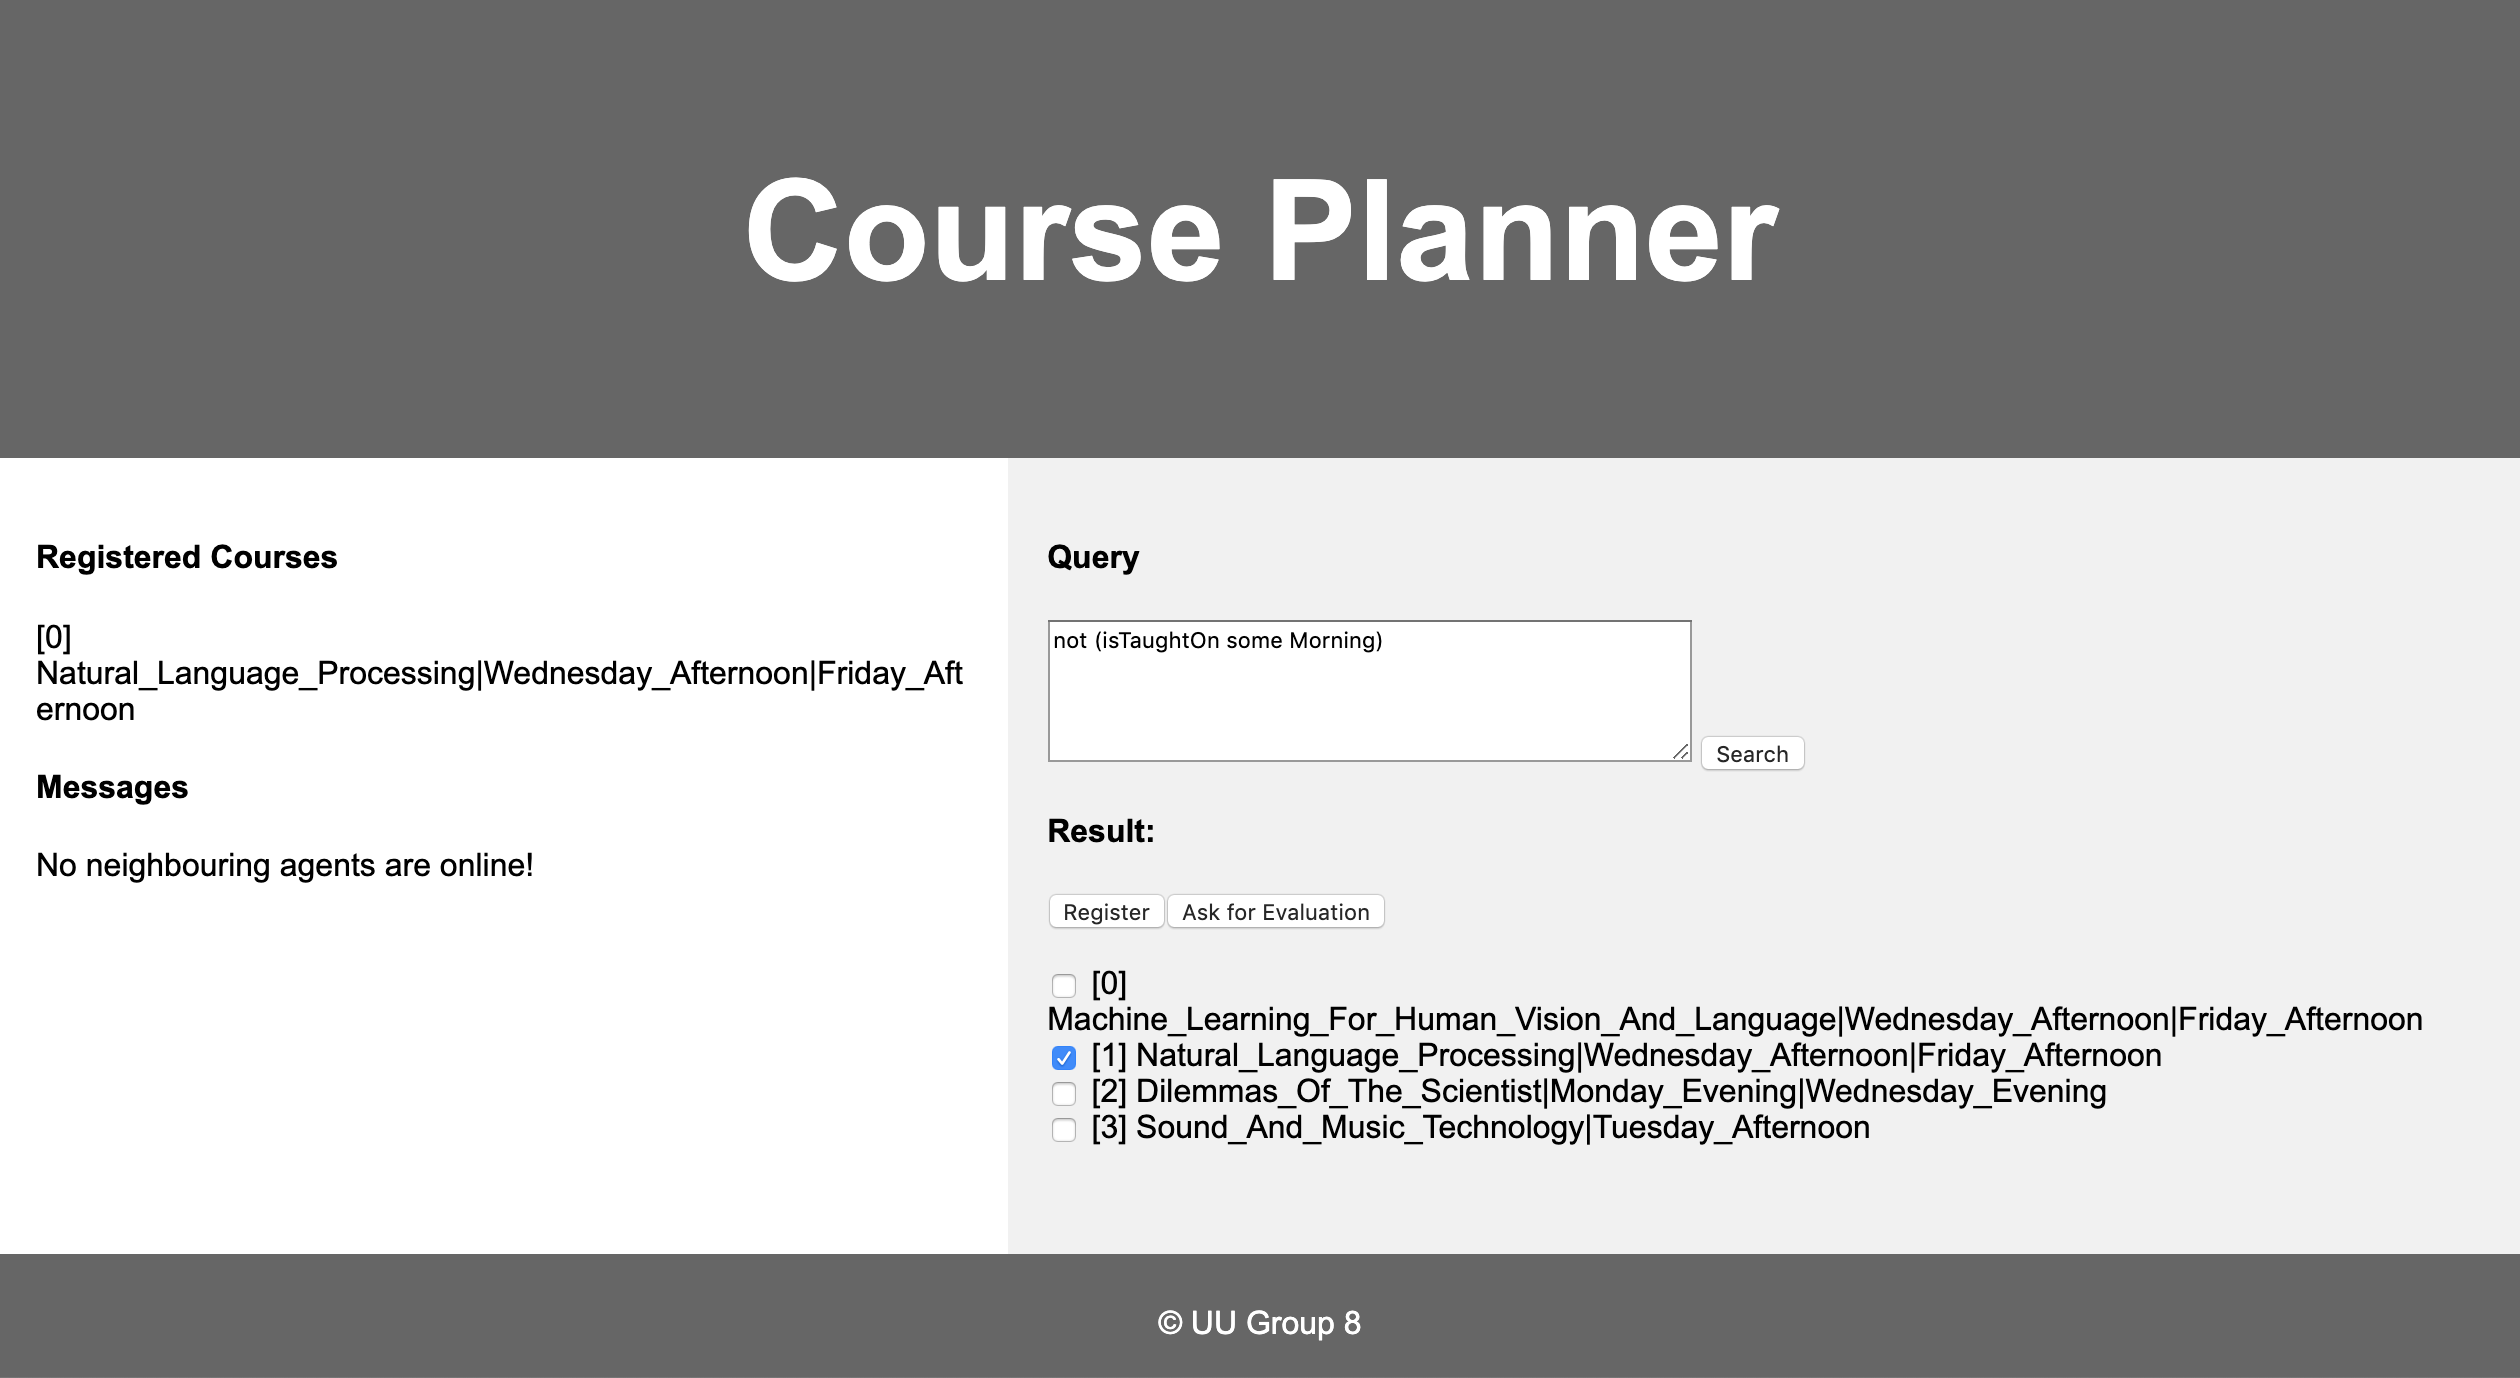
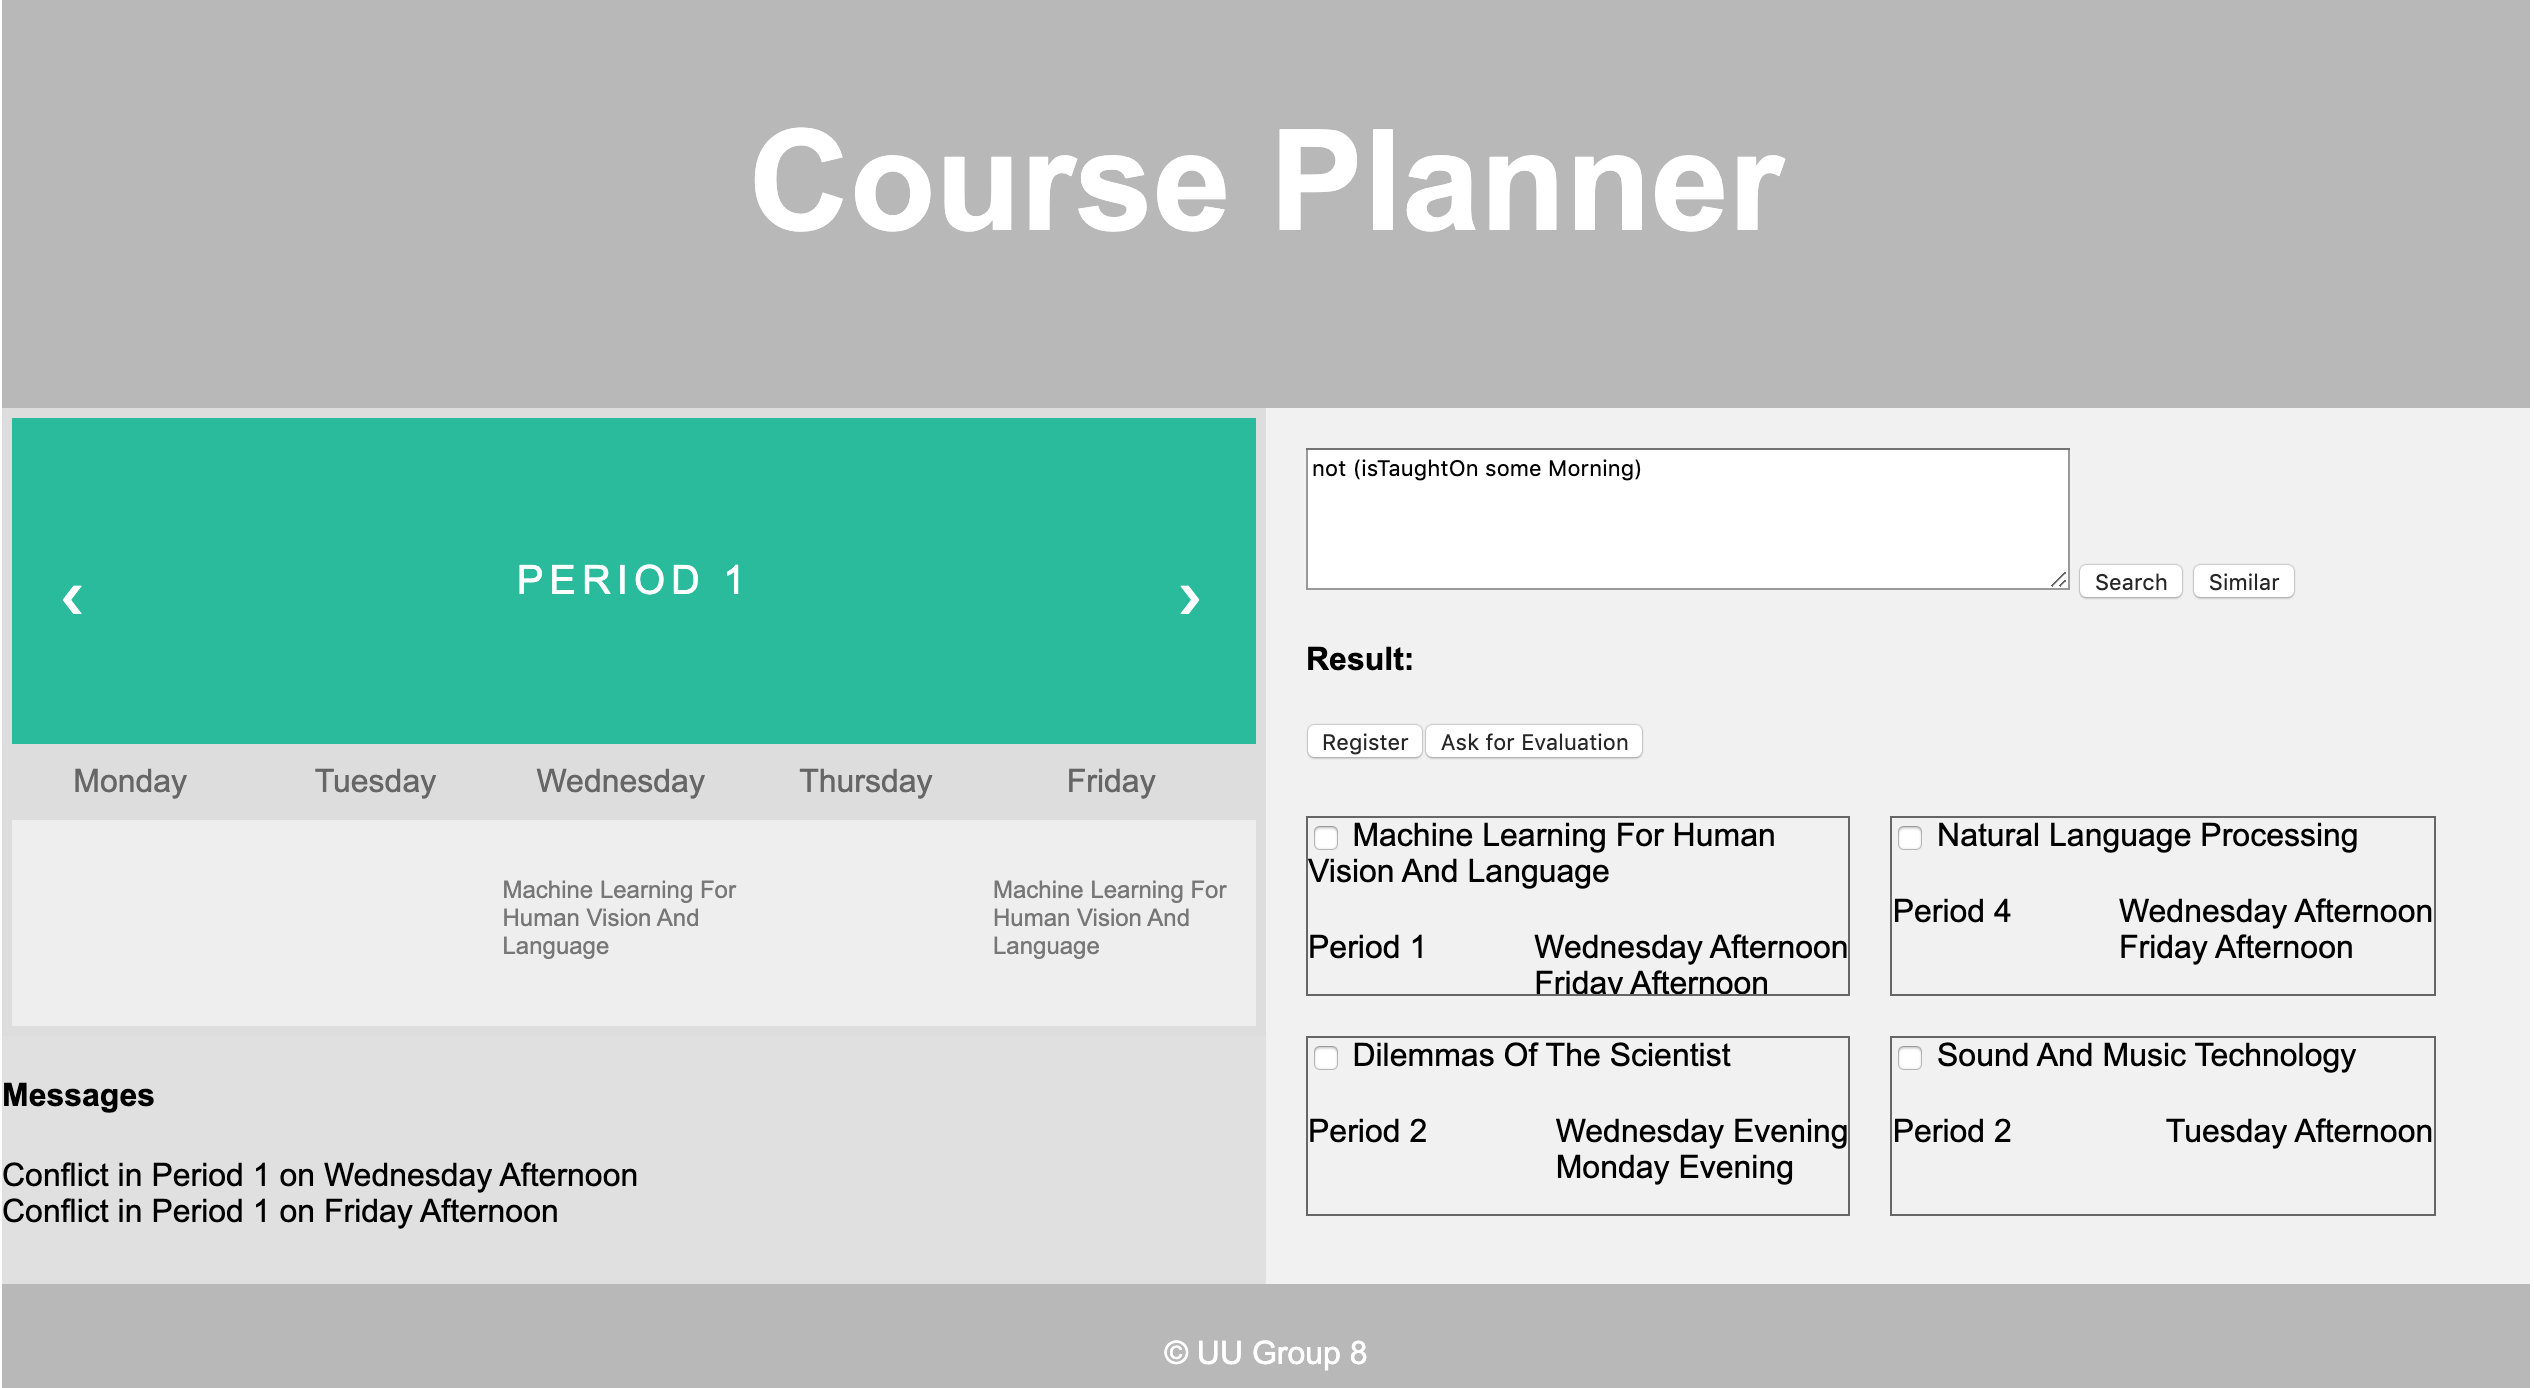
update readme and new similar

diff --git a/course-planner/src/main/resources/static/index.js b/course-planner/src/main/resources/static/index.js
@@ -98,7 +98,7 @@ function search() {
                     json += '<div class="timeslot">' + item["timeslot"][key] + '</div>';
                 }
 
-                json += '</div></div></div><br>';
+                json += '</div></div></div>';
 
             });
 
@@ -138,19 +138,29 @@ function similar() {
             json += '<div id="registered">';
 
             $.each(data, function(index, item) {
-                json += '<input data-course=' + item + ' type="checkbox"> [' + index + '] ' + item + '<br>';
+                json += '<div class="course"><div class="tick"><input data-course=' + item["id"] + ' type="checkbox"> ' + item["name"] + '</div>';
+
+                json += '<div class="info"><div class="period">' + item["period"] + '</div>';
+
+                json += '<div class="timeslots">'
+                for(var key in item["timeslot"]) {
+                    json += '<div class="timeslot">' + item["timeslot"][key] + '</div>';
+                }
+
+                json += '</div></div></div>';
+
             });
 
-            json += '</div>'
+            json += '</div>';
 
             $('#feedback').html(json);
 
             console.log("SUCCESS : ", data);
-            $("#btn-search").prop("disabled", false);
+            $("#btn-similar").prop("disabled", false);
         },
         error: function (e) {
             console.log("ERROR : ", e);
-            $("#btn-search").prop("disabled", false);
+            $("#btn-similar").prop("disabled", false);
         }
     });
 }

diff --git a/course-planner/src/main/resources/static/index.css b/course-planner/src/main/resources/static/index.css
@@ -17,7 +17,7 @@ ul {
 
 /* Style the header */
 header {
-    background: #666;
+    background: #B8B8B8;
     padding: 30px;
     text-align: center;
     font-size: 35px;
@@ -34,8 +34,8 @@ section {
 nav {
     float: left;
     width: 50%;
-    padding: 5px;
     min-height: calc(100vh - 300px);
+    background-color: #E0E0E0;
 }
 
 article {
@@ -53,8 +53,8 @@ article {
 
 .course {
     border: 1px solid #666;
-    width: 100%;
-    height: auto;
+    width: 46%;
+    height: 90px;
     float: left;
     margin: 10px 20px 10px 0px;
     overflow: auto;
@@ -81,7 +81,7 @@ section:after {
 
 /* Style the footer */
 footer {
-    background: #666;
+    background: #B8B8B8;
     padding: 10px;
     text-align: center;
     color: white;
@@ -105,6 +105,10 @@ footer {
 
 .bottom {
     bottom: 0;
+}
+
+.calendar {
+    border: 5px solid #ddd;
 }
 
 .term {

diff --git a/course-planner/src/main/resources/templates/index.html b/course-planner/src/main/resources/templates/index.html
@@ -15,7 +15,7 @@
 <section class="row">
     <nav>
         <div class="split top">
-            <div>
+            <div class="calendar">
                 <div class="term">
                     <ul>
                         <li class="prev" onclick="prev()">&#10094;</li>
@@ -56,8 +56,7 @@
     </nav>
 
     <article>
-        <h4>Query</h4>
-        <textarea rows = "5" cols = "50" id="query"></textarea>
+        <textarea rows = "5" cols = "60" id="query"></textarea>
         <button type="button" id="bth-search" onclick="search()">Search</button>
         <button type="button" id="bth-similar" onclick="similar()">Similar</button>
         <div id="feedback"></div>

diff --git a/course-planner/src/main/java/nl/uu/group8/courseplanner/controller/CourseController.java b/course-planner/src/main/java/nl/uu/group8/courseplanner/controller/CourseController.java
@@ -173,90 +173,7 @@ public class CourseController {
 
         long start = System.currentTimeMillis();
 
-        String methodology_query = "useMethodology value " + course;
-
-        Set<OWLNamedIndividual> methodology_individuals = engine.getInstances(methodology_query, false);
-        Set<String> methodology_hashset = new HashSet<>();
-        for (OWLEntity _entity : methodology_individuals) {
-            String methodology = shortFormProvider.getShortForm(_entity);
-            methodology_hashset.add(methodology);
-        }
-
-        String course_query = "Course";
-        Set<OWLNamedIndividual> course_individuals = engine.getInstances(course_query, false);
-        Set<String> course_hashset = new HashSet<>();
-        for (OWLEntity entity : course_individuals) {
-            String course_name = shortFormProvider.getShortForm(entity);
-            if(course_name.equalsIgnoreCase(course)){
-                methodology_query = "useMethodology value " + course_name;
-
-                Set<OWLNamedIndividual> _methodology_individuals = engine.getInstances(methodology_query, false);
-                Set<String> _methodology_hashset = new HashSet<>();
-                for (OWLEntity _entity : _methodology_individuals) {
-                    String methodology = shortFormProvider.getShortForm(_entity);
-                    _methodology_hashset.add(methodology);
-                }
-                Set<String> intersection = new HashSet<String>(_methodology_hashset);
-                if(intersection.retainAll(methodology_hashset)){
-                    course_hashset.add(course_name);
-                }
-            }
-        }
-
-        String topic_query = "isCoveredBy value " + course;
-
-        Set<OWLNamedIndividual> topic_individuals = engine.getInstances(topic_query, false);
-        Set<String> topics = new HashSet<>();
-        for (OWLEntity entity : topic_individuals) {
-            String topic = shortFormProvider.getShortForm(entity);
-            topics.add(topic);
-            Set<OWLClass> topic_set = engine.getSuperClasses(topic, false);
-            for (OWLEntity _entity : topic_set) {
-                String _topic = shortFormProvider.getShortForm(_entity);
-                topics.add(_topic);
-            }
-        }
-
-        Set<String> _course_hashset = new HashSet<>();
-        for(String _course : course_hashset){
-            String _topic_query = "isCoveredBy value " + _course;
-
-            Set<OWLNamedIndividual> _topic_individuals = engine.getInstances(_topic_query, false);
-            Set<String> _topics = new HashSet<>();
-            for (OWLEntity entity : _topic_individuals) {
-                String topic = shortFormProvider.getShortForm(entity);
-                _topics.add(topic);
-                Set<OWLClass> topic_set = engine.getSuperClasses(topic, false);
-                for (OWLEntity _entity : topic_set) {
-                    String _topic = shortFormProvider.getShortForm(_entity);
-                    _topics.add(_topic);
-                }
-            }
-            Set<String> intersection = new HashSet<String>(_topics);
-            if(intersection.retainAll(topics)){
-                _course_hashset.add(_course);
-            }
-        }
-
-        List<String> courseList = new ArrayList<>();
-        for (String name : _course_hashset) {
-
-            String hasCourseQuery = "hasCourse value " + name;
-            Set<String> timeslot = new HashSet<>();
-            Set<OWLNamedIndividual> timeslotIndividuals = engine.getInstances(hasCourseQuery, false);
-            for (OWLEntity timeslotEntity : timeslotIndividuals) {
-                timeslot.add(shortFormProvider.getShortForm(timeslotEntity));
-            }
-
-            String containsCoursesQuery = "containsCourses value " + name;
-            Set<String> period = new HashSet<>();
-            Set<OWLNamedIndividual> periodIndividuals = engine.getInstances(containsCoursesQuery, false);
-            for (OWLEntity periodEntity : periodIndividuals) {
-                period.add(shortFormProvider.getShortForm(periodEntity));
-            }
-
-            courseList.add(name + "|" + String.join("|", timeslot) + "|" + String.join("|", period));
-        }
+        List<Course> courseList = parseQuery("Course");
 
         long end = System.currentTimeMillis();
         log.info("Search time: " + (end - start) + " ms");
